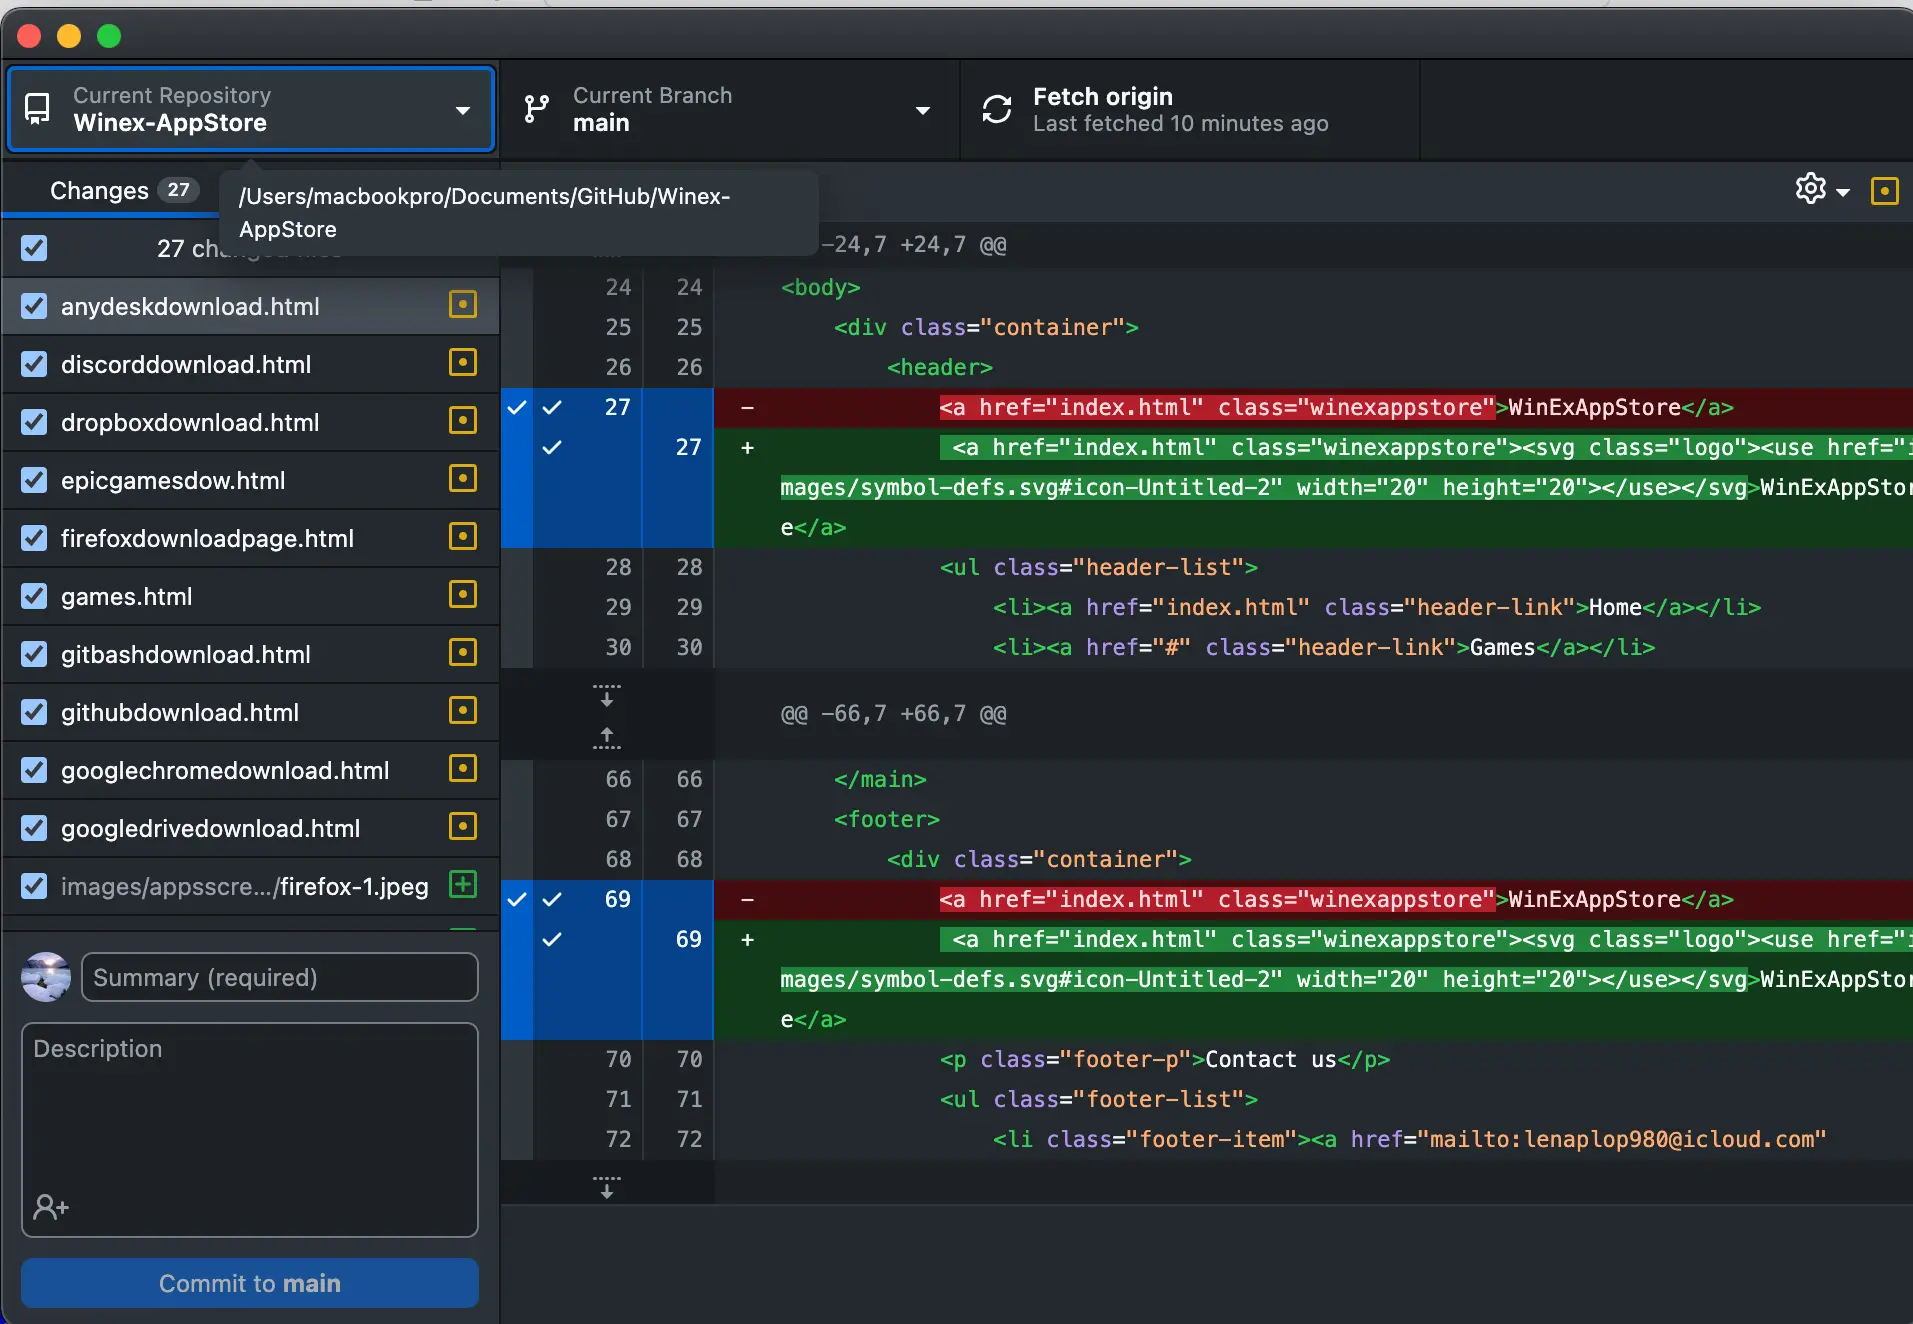
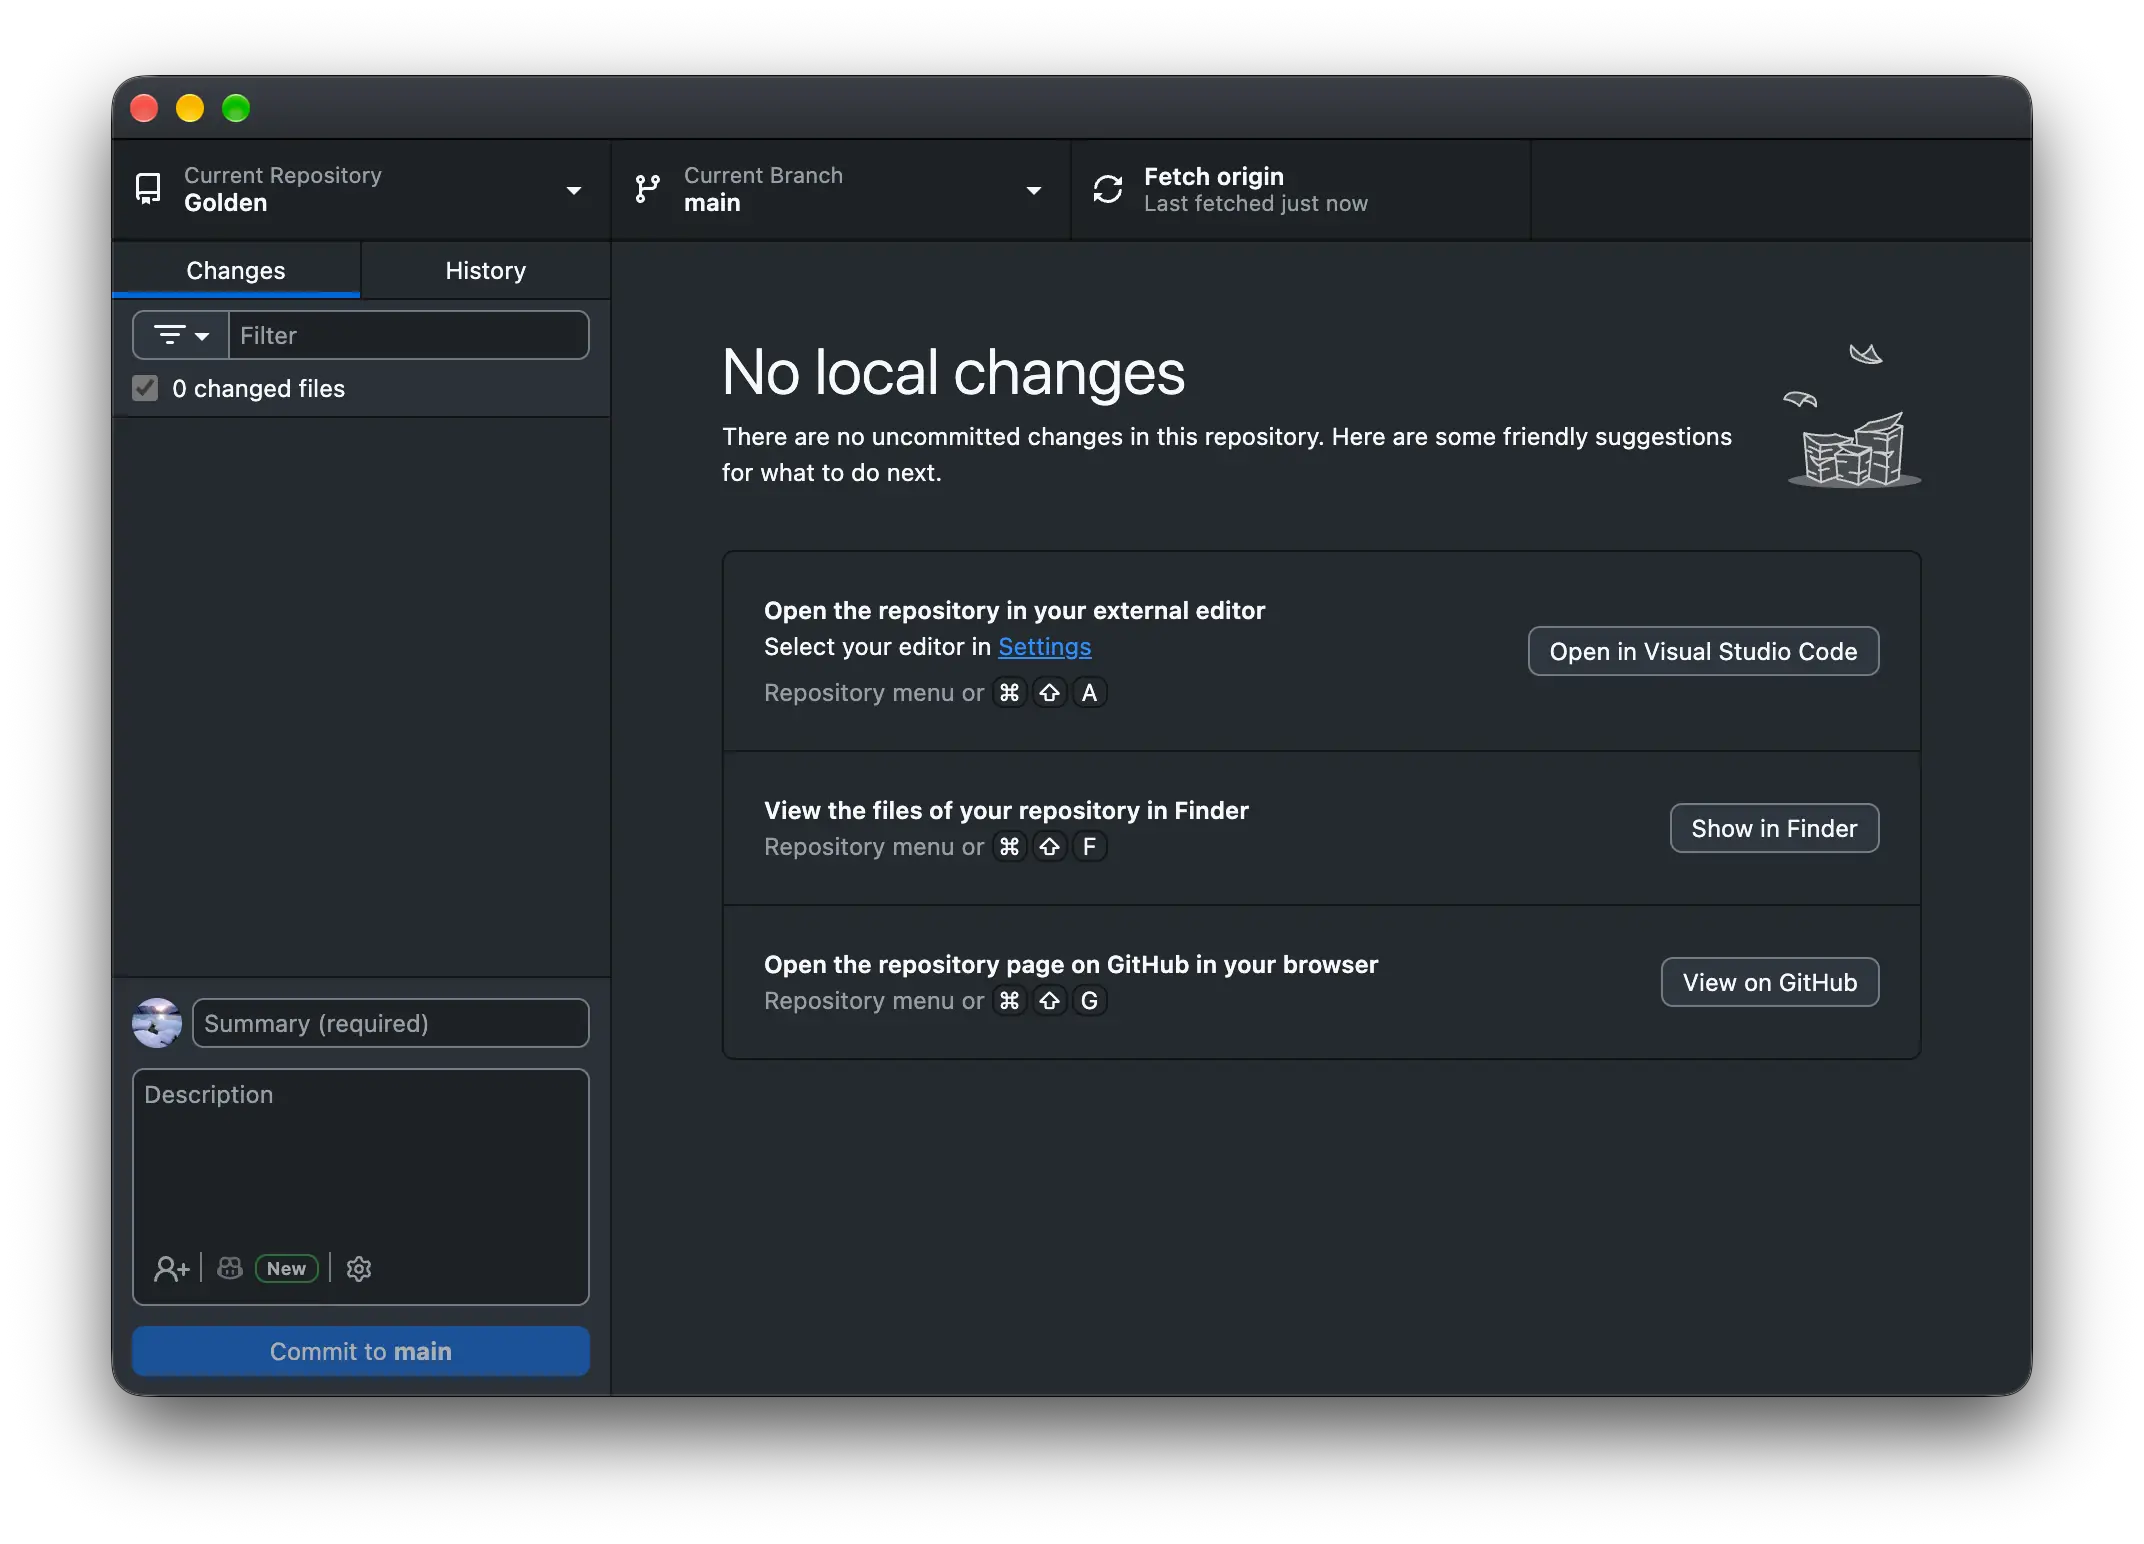
Added feature
Added dragging in modal Version 1.0 Beta 6

diff --git a/src/components/Modal.jsx b/src/components/Modal.jsx
@@ -1,43 +1,21 @@
 import styles from "../styles/modal.module.scss";
+import Draggable from "react-draggable";
 import { getScreenImageURL } from "../image-util-screens";
-import { useEffect, useState } from "react";
+import { useEffect, useState, useRef } from "react";
 
 export default function Modal({ url, closeModal }) {
   const [zoom, setZoom] = useState(80);
-  const [top, setTop] = useState(0);
-  const [left, setLeft] = useState(0);
-
-  const [pageY, setPageY] = useState(0);
-  const [pageX, setPageX] = useState(0);
-
-  const img = document.querySelector(".img");
-  const y = document.querySelector(".img");
+  const nodeRef = useRef(null);
 
   const handleZoomIn = (e) => {
     e.stopPropagation();
-
     setZoom((z) => z + 10);
   };
 
   const handleZoomOut = (e) => {
     e.stopPropagation();
-
     setZoom((z) => z - 10);
   };
-
-  // const handleDrag = (e) => {
-  //   e.stopPropagation();
-  //   console.log("ZOOM INFO!", top, left);
-
-  //   const startX = e.clientX;
-  //   const startY = e.clientY;
-
-  //   setPageY(startY);
-  //   setPageX(startX);
-
-  //   setTop(startY + img.offsetWidth / 2);
-  //   setLeft(startX + img.offsetWidth / 2);
-  // };
 
   return (
     <div className={styles.overlay} onClick={() => closeModal()}>
@@ -50,13 +28,16 @@ export default function Modal({ url, closeModal }) {
         </button>
       </div>
       <div className={styles.modal}>
-        <img
-          src={getScreenImageURL(url)}
-          alt={url}
-          className={styles.img}
-          //onDrag={handleDrag}
-          style={{ width: zoom + "%", top: top + "px", left: left + "px" }}
-        />
+        <Draggable nodeRef={nodeRef}>
+          <div onClick={(e) => e.stopPropagation()} ref={nodeRef}>
+            <img
+              src={getScreenImageURL(url)}
+              alt={url}
+              className={styles.img}
+              style={{ width: zoom + "%" }}
+            />
+          </div>
+        </Draggable>
       </div>
     </div>
   );

diff --git a/src/api/api.js b/src/api/api.js
@@ -1,10 +1,6 @@
 import apps from "../data/apps.json";
 import slides from "../data/slider.json";
 
-// export const getApps = () => {
-//   return apps;
-// };
-
 export const getApps = () => {
   return apps.filter((app) => app.downloadLinks?.os);
 };
@@ -29,7 +25,6 @@ export const getAppId = (appId) => {
 export const searchForApps = (query, os, filter) => {
 
 console.log("SEARCH DEBUG!!!!!!" , query, os, filter);
-
 
   if (filter === "all") {
      let search = apps.filter((app) =>

diff --git a/src/components/Footer.jsx b/src/components/Footer.jsx
@@ -43,7 +43,7 @@ export default function Footer() {
               <li className={styles.footer__item}><a href="https://github.com/KirillKapteily" className={styles.footer__link}><Globe className={styles.icon__fixer}/>GitHub</a></li>
             </ul>
           </div>
-          <p className={styles.version__p}>Version 1.0 Beta 5</p>
+          <p className={styles.version__p}>Version 1.0 Beta 6</p>
         </div>
 
       </div>

diff --git a/src/pages/Home.jsx b/src/pages/Home.jsx
@@ -9,14 +9,12 @@ import styles from "../styles/selector.module.scss";
 
 export default function Home({ os, setOs }) {
   const [filter, setFilter] = useState("all");
-  // const apps = getApps();
   const filteredApps = filterApps(filter, os);
 
   useEffect(() => {
     console.log(filteredApps);
   }, [filter]);
 
-  //app__selector
   return (
     <section>
       <div className={container.container}>

diff --git a/src/styles/modal.module.scss b/src/styles/modal.module.scss
@@ -31,10 +31,11 @@
 
 .modal__btn{
   z-index: 21928347982;
-    background: #ffffff71;
+    background: #ffffff99;
     font-size: 40px;
   color: rgb(0, 0, 0);
   border: solid 0.5px white;
+  padding: 10px;
   border-radius: 50px;
   padding: 10px;
   box-shadow:
@@ -60,7 +61,9 @@
 
 .img{
     width: 80%;
+    transition: width 0.5s;
     position: relative;
   height: auto;
+
 }
 

diff --git a/src/styles/header.module.scss b/src/styles/header.module.scss
@@ -2,6 +2,10 @@
     background-color: #cfecff;
     z-index: 12334;
     padding: 10px;
+    box-shadow:
+    0 4px 15px rgba(0, 0, 0, 0.149),
+    inset 2px 2px 0px -2px rgba(255, 255, 255, 0.7),
+    inset 0 0 3px 1px rgba(255, 255, 255, 0.7);
 }
 
 .list{

diff --git a/src/styles/search.module.scss b/src/styles/search.module.scss
@@ -45,7 +45,7 @@
   padding-top: 12px;
   padding-bottom: 12px;
   color: #fff;
-  background: linear-gradient(to bottom, #cfecff, #ffffff00);
+  background: linear-gradient(to bottom, rgb(255, 255, 255), #ffffff00);
 }
 
 .app__search__btn {
